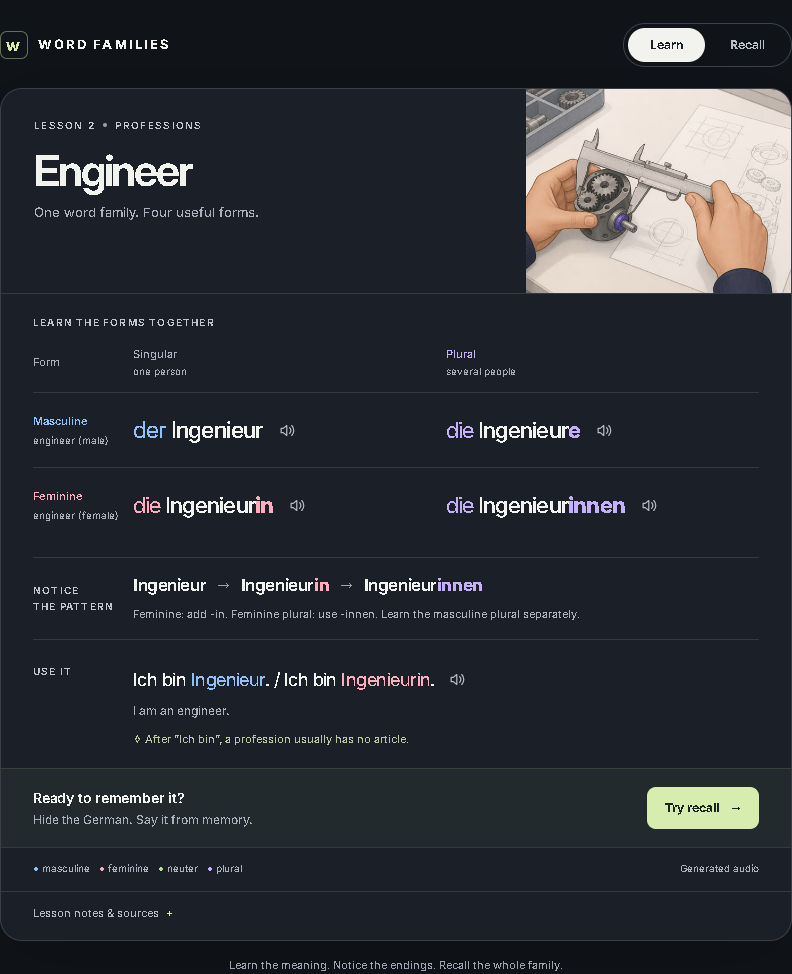
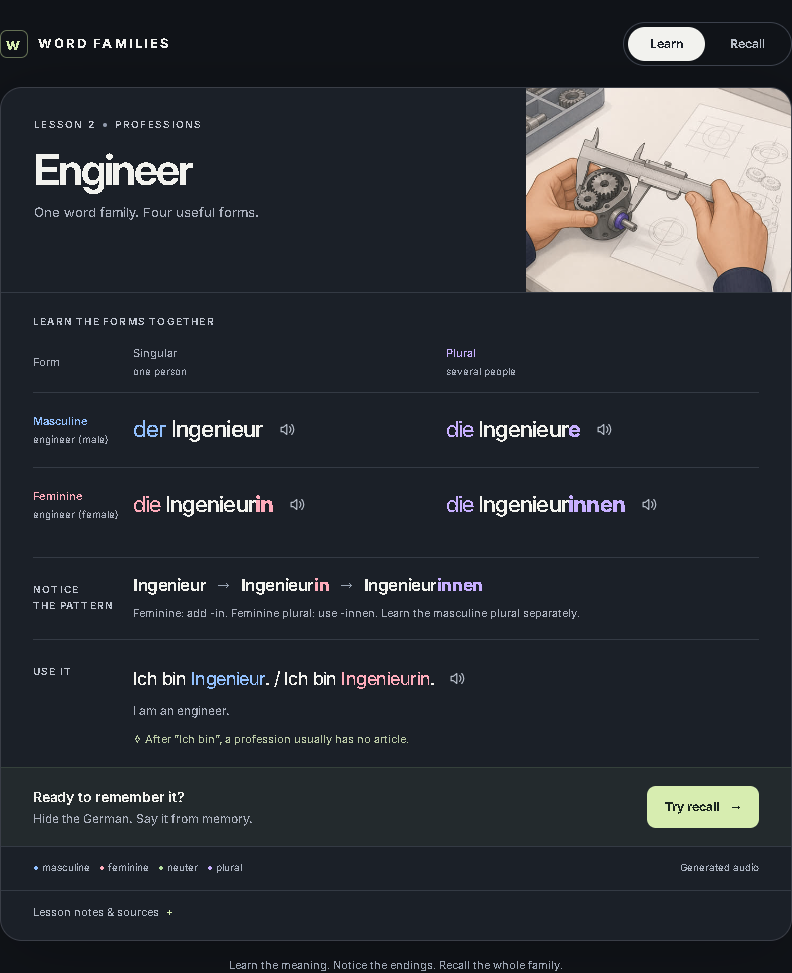
fix: preserve original browsing UI around complete vocabulary cards

diff --git a/platform/tests/web/word-family-cards-ui.test.ts b/platform/tests/web/word-family-cards-ui.test.ts
@@ -7,10 +7,55 @@ import { resolve } from "node:path";
 import { WordFamilyCard } from "../../apps/web/components/word-cards/WordFamilyCard";
 import type { WordCardCatalog } from "../../apps/web/lib/content/word-card-types";
 import { isSafeNavigationPath } from "../../apps/web/lib/content/navigation-context";
+import { buildHubNavigationContext, resolveBackHref } from "../../apps/web/lib/content/navigation-context";
+import { withWordCardHub } from "../../apps/web/lib/content/word-cards";
+import type { LearnerHubProjection } from "../../apps/web/lib/content/hub-types";
+import { HubListView } from "../../apps/web/components/hubs/HubViews";
+import { filterHubRecords, parseHubSearchParams } from "../../apps/web/lib/content/hub-query";
 
 const catalog = JSON.parse(readFileSync(resolve("apps/web/generated/word-cards.json"), "utf8")) as WordCardCatalog;
 const engineer = catalog.cards.find(c => c.id === "W126")!;
+const originalHub = (JSON.parse(readFileSync(resolve("apps/web/generated/learner-hubs.json"), "utf8")) as LearnerHubProjection).hubsById.vocabulary;
 afterEach(cleanup);
+
+describe("original vocabulary browsing with complete cards", () => {
+  it("keeps every complete family reachable through the original grid inventory", () => {
+    const hub = withWordCardHub(originalHub);
+    expect(hub.items).toHaveLength(catalog.cards.length);
+    expect(new Set(hub.items.map(i => i.hubDestination.path))).toEqual(new Set(catalog.cards.map(c => c.path)));
+    expect(hub.title).toBe(originalHub.title);
+    expect(hub.description).toBe(originalHub.description);
+    expect(hub.categories).toEqual(expect.arrayContaining([...originalHub.categories]));
+  });
+  it("preserves the original filter form and grid, with one aggregated engineer result", () => {
+    render(createElement(HubListView, { hub: withWordCardHub(originalHub), searchParams: { q: "Ingenieurinnen", lesson: "02", category: "noun" } }));
+    expect(screen.getByRole("searchbox", {name:"Search Vocabulary"})).toBeTruthy();
+    expect(screen.getByRole("combobox", {name:"Filter Vocabulary by lesson"})).toBeTruthy();
+    expect(screen.getByRole("combobox", {name:"Filter Vocabulary by category"})).toBeTruthy();
+    expect(screen.getByRole("button", {name:"Apply filters"})).toBeTruthy();
+    expect(screen.getByRole("link", {name:"Clear filters"})).toBeTruthy();
+    expect(document.querySelectorAll(".card-grid.hub-results [data-word-family]")).toHaveLength(1);
+    for(const text of ["der Ingenieur", "die Ingenieure", "die Ingenieurin", "die Ingenieurinnen"]) expect(screen.getByText(text, {exact:true})).toBeTruthy();
+    expect(screen.getByRole("link", {name:"Study this word family"}).getAttribute("href")).toMatch(/^\/vocabulary\/w126\?nav=/);
+  });
+  it("keeps Lesson 3 and every added number searchable and preserves return filters", () => {
+    const hub = withWordCardHub(originalHub);
+    const third = filterHubRecords(hub.items, parseHubSearchParams({lesson:"03"},hub.categories));
+    expect(third.items.length).toBeGreaterThanOrEqual(58);
+    const numbers = filterHubRecords(hub.items, parseHubSearchParams({category:"number"},hub.categories));
+    expect(numbers.items).toHaveLength(101);
+    const navigation = buildHubNavigationContext({hubId:"vocabulary",lesson:"03",q:"meine",category:"pronoun"});
+    expect(resolveBackHref(navigation,"hub")).toBe("/vocabulary?q=meine&lesson=03&category=pronoun");
+  });
+  it("clears edited form values when navigation clears the active filters", () => {
+    const complete = withWordCardHub(originalHub);
+    const hub = { ...complete, items: complete.items.filter(i => i.wordFamily?.id === "W126"), itemCount: 1 };
+    const view = render(createElement(HubListView, { hub, searchParams: {q:"Ingenieur"} }));
+    fireEvent.change(screen.getByRole("searchbox", {name:"Search Vocabulary"}), {target:{value:"Krankenpfleger"}});
+    view.rerender(createElement(HubListView, { hub, searchParams: {} }));
+    expect((screen.getByRole("searchbox", {name:"Search Vocabulary"}) as HTMLInputElement).value).toBe("");
+  });
+});
 
 describe("complete word-family cards", () => {
   it("keeps both engineer entries and all four forms together", () => {

diff --git a/platform/apps/web/lib/content/word-cards.ts b/platform/apps/web/lib/content/word-cards.ts
@@ -4,6 +4,7 @@ import { dirname, join } from "node:path";
 import type { WordCardCatalog } from "./word-card-types";
 import type { LearnerSearchProjection, LearnerSearchDocument, LearnerSearchField } from "./search-types";
 import { germanMatchKeys } from "./match-keys";
+import type { LearnerHubDefinition, LearnerHubRecord } from "./hub-types";
 
 let cached: WordCardCatalog | undefined;
 const catalogPath = join(dirname(fileURLToPath(import.meta.url)), "../../generated/word-cards.json");
@@ -13,6 +14,19 @@ export function loadWordCards(): WordCardCatalog {
 }
 export function wordCardForPath(path: string) {
   return loadWordCards().cards.find(card => card.path === path || card.aliases.includes(path));
+}
+
+/** Keep the established hub UI and query contract; replace only its inventory. */
+export function withWordCardHub(original: LearnerHubDefinition): LearnerHubDefinition {
+  const categoryMap: Record<string, string> = { Noun: "noun", Profession: "noun", Family: "noun", Language: "noun", Country: "proper-noun", Geography: "proper-noun", Functionword: "function-word", Questionword: "question-word" };
+  const items: LearnerHubRecord[] = loadWordCards().cards.map((card): LearnerHubRecord => {
+    const previous = original.items.find(item => card.aliases.includes(item.hubDestination.path) || card.aliases.includes(`/vocabulary/id-${Buffer.from(item.id).toString("hex")}`));
+    const category = previous?.category ?? categoryMap[card.category] ?? card.category.toLowerCase();
+    const lessonIds = [...new Set([...card.lessons.flatMap(l => l === "1–3" || l === "Module 1" ? ["lesson:01", "lesson:02", "lesson:03"] : /^[123]$/.test(l) ? [`lesson:0${l}`] : []), ...(previous?.lessonIds ?? []), ...(card.teacherRows.length ? ["lesson:02"] : [])])];
+    const field = (name: string, text: string) => ({ field: name, displayText: text, matchKeys: germanMatchKeys(text) });
+    return { id: `lex:study-${card.id.toLowerCase()}`, kind: "Lexeme", publicationStatus: "published", displayLabel: card.rows.map(r => r.singular.text).join(" / "), category, lessonIds, sourcePriority: card.priorities.includes("Core") ? 1 : card.teacherRows.length ? 3 : 2, hubDestination: { hub: "vocabulary", path: card.path }, wordFamily: card, searchFields: [field("meaning", card.title), field("category", category), field("topic", card.category), ...card.rows.flatMap(r => [field("lemma", r.singular.text), field("meaning", r.meaning), ...r.plurals.map(p => field("form", p.text))])] };
+  }).sort((a,b) => a.displayLabel.localeCompare(b.displayLabel, "de"));
+  return { ...original, items, itemCount: items.length, categories: [...new Set([...original.categories, ...items.map(i => i.category!).filter(Boolean)])].sort() };
 }
 
 export function withWordCardSearch(projection: LearnerSearchProjection): LearnerSearchProjection {

diff --git a/platform/apps/web/components/hubs/HubViews.tsx b/platform/apps/web/components/hubs/HubViews.tsx
@@ -37,6 +37,7 @@ import type { LearnerGender } from "@/lib/content/detail-types";
 import { resolvePublishedPronunciationExact } from "@/lib/content/media-availability";
 import { illustrationForDetail } from "@/lib/content/illustrations";
 import { IllustrationPicture } from "@/components/media/IllustrationPicture";
+import { WordFamilyPreview } from "@/components/word-cards/WordFamilyPreview";
 import {
   LemmaAudioButton,
   MeaningPlate,
@@ -205,6 +206,7 @@ function VocabularyHubCard({
   query: HubQueryState;
 }) {
   const href = hubDetailHref(hub, record, query);
+  if (record.wordFamily && href) return <WordFamilyPreview card={record.wordFamily} href={href} lessonIds={record.lessonIds} />;
   const { article, gender, lemma } = splitArticle(record.displayLabel);
   const gloss = firstFieldText(record, "meaning");
   const plural =
@@ -432,14 +434,14 @@ function hubDetailHref(
 ): string | null {
   const detailHub = detailHubForId(record.id);
   if (detailHub !== hub.id) return null;
-  const href = detailCanonicalPath(detailHub, record.id);
+  const href = record.wordFamily ? record.hubDestination.path : detailCanonicalPath(detailHub, record.id);
   if (!isSafeNavigationPath(href)) return null;
   return appendNavigationContext(
     href,
     buildHubNavigationContext({
       hubId: hub.id,
       ...(query.q.trim().length > 0 ? { q: query.q } : {}),
-      ...(query.lesson === "01" || query.lesson === "02"
+      ...(query.lesson === "01" || query.lesson === "02" || query.lesson === "03"
         ? { lesson: query.lesson }
         : {}),
       ...(query.category && query.category !== "all"
@@ -880,6 +882,7 @@ function HubFilters({
     <section className="panel hub-filters" aria-labelledby="hub-filters-heading">
       <h2 id="hub-filters-heading">Filter items</h2>
       <form
+        key={JSON.stringify([query.q, query.lesson, query.category])}
         className="hub-filter-form"
         method="get"
         action={withPagesBasePath(hub.path)}
@@ -910,6 +913,7 @@ function HubFilters({
               <option value="all">All</option>
               <option value="01">Lesson 1</option>
               <option value="02">Lesson 2</option>
+              {hub.items.some(item => item.lessonIds.includes("lesson:03")) && <option value="03">Lesson 3</option>}
             </select>
           </label>
           {hasCategories ? (

diff --git a/platform/apps/web/app/vocabulary/[entityId]/page.tsx b/platform/apps/web/app/vocabulary/[entityId]/page.tsx
@@ -1,8 +1,10 @@
 import type { Metadata } from "next";
-import Link from "next/link";
+import { Suspense } from "react";
 import { notFound } from "next/navigation";
 import { ShellLayout } from "@/components/shell/ShellLayout";
 import { WordFamilyCard } from "@/components/word-cards/WordFamilyCard";
+import { WordCardBackLink } from "@/components/word-cards/WordCardBackLink";
+import { BackLink } from "@/components/nav/BackLink";
 import { loadWordCards, wordCardForPath } from "@/lib/content/word-cards";
 import { DetailLearningControls } from "@/components/learner-state/DetailLearningControls";
 import { tryDecodeEntityRouteSegment } from "@/lib/content/path-utils";
@@ -22,10 +24,8 @@ export default async function VocabularyDetailPage({ params }: PageProps) {
   const { entityId } = await params;
   const card = wordCardForPath(`/vocabulary/${entityId}`);
   if (!card) notFound();
-  const cards = loadWordCards().cards;
-  const index = cards.findIndex(c => c.id === card.id);
   const oldPath = card.aliases.find(p => p.startsWith("/vocabulary/id-"));
   const requestedLearningId = tryDecodeEntityRouteSegment(entityId);
   const learningId = requestedLearningId?.startsWith("lex:") ? requestedLearningId : oldPath ? tryDecodeEntityRouteSegment(oldPath.split("/").at(-1)!) : null;
-  return <ShellLayout current="vocabulary"><div className={styles.detailFrame}><nav className={styles.cardNavigation} aria-label="Vocabulary cards"><Link href="/vocabulary">← All vocabulary</Link>{index > 0 && <Link href={cards[index - 1]!.path} prefetch={false}>Previous family</Link>}{index < cards.length - 1 && <Link href={cards[index + 1]!.path} prefetch={false}>Next family →</Link>}</nav><WordFamilyCard key={card.id} card={card} /></div>{learningId && <DetailLearningControls key={learningId} contentId={learningId} />}</ShellLayout>;
+  return <ShellLayout current="vocabulary"><div className="stack"><Suspense fallback={<BackLink href="/vocabulary" />}><WordCardBackLink /></Suspense><div className={styles.detailFrame}><WordFamilyCard key={card.id} card={card} /></div>{learningId && <DetailLearningControls key={learningId} contentId={learningId} />}</div></ShellLayout>;
 }

diff --git a/platform/apps/web/components/word-cards/WordFamilyPreview.tsx b/platform/apps/web/components/word-cards/WordFamilyPreview.tsx
@@ -1,0 +1,23 @@
+import Link from "next/link";
+import type { WordCard, WordForm } from "@/lib/content/word-card-types";
+import { withPagesBaseAssetPath } from "@/lib/content/pages-base-path";
+import { LemmaAudioButton } from "@/components/media/MeaningPlate";
+import { lessonLabel } from "@/lib/content/lesson-label";
+import styles from "./word-family-preview.module.css";
+
+function Form({ form }: { form: WordForm }) {
+  return <div className={styles.form}><span className={styles[form.tone]} lang="de">{form.text}</span>{form.audio && <LemmaAudioButton audio={{ publicPath: form.audio, spokenText: form.text }} label={form.text} />}</div>;
+}
+
+/** Compact entry in the existing browse grid; opens the full approved card. */
+export function WordFamilyPreview({ card, href, lessonIds }: { card: WordCard; href: string; lessonIds: readonly string[] }) {
+  return <article className={`hub-card hub-card--vocabulary ${styles.card}`} data-hub-card="vocabulary" data-word-family={card.id}>
+    {card.image && <div className="hub-card__media"><img className="hub-card__image" src={withPagesBaseAssetPath(card.image.path)} alt={card.image.alt} width={400} height={400} loading="lazy" decoding="async" /></div>}
+    <div className={styles.body}>
+      <h2 className="hub-card__title"><Link className="hub-card__link" href={href} prefetch={false}>{card.title}</Link></h2>
+      {card.rows.map((row, index) => <div className={styles.row} key={`${index}-${row.singular.text}`}><span className={styles.label}>{row.label}</span><Form form={row.singular} />{row.plurals.map(form => <div key={form.text}><span className={styles.label}>Plural</span><Form form={form} /></div>)}</div>)}
+      <p className="meta-row hub-card__meta">{lessonIds.map(id => <span key={id} className="meta-chip">{lessonLabel(id)}</span>)}</p>
+      <Link className="btn btn-secondary" href={href} prefetch={false}>Study this word family</Link>
+    </div>
+  </article>;
+}

diff --git a/platform/apps/web/lib/content/navigation-context.ts b/platform/apps/web/lib/content/navigation-context.ts
@@ -30,7 +30,7 @@ export type NavigationContext = {
   /** Hub id when entryContext is hub. */
   hubId?: LearnerHubId;
   /** Hub lesson filter. */
-  lesson?: "all" | "01" | "02";
+  lesson?: "all" | "01" | "02" | "03";
   /** Hub category filter. */
   category?: string;
   /** Optional safe result id that was opened (entity id, not assertion). */
@@ -230,7 +230,7 @@ function normalizeContext(raw: unknown): NavigationContext | null {
         ctx.returnPath = `/${obj.hubId}`;
       }
     }
-    if (obj.lesson === "01" || obj.lesson === "02" || obj.lesson === "all") {
+    if (obj.lesson === "01" || obj.lesson === "02" || obj.lesson === "03" || obj.lesson === "all") {
       ctx.lesson = obj.lesson;
     }
     if (typeof obj.category === "string") {
@@ -393,7 +393,7 @@ export function buildSearchNavigationContext(
 export function buildHubNavigationContext(input: {
   hubId: LearnerHubId;
   q?: string;
-  lesson?: "all" | "01" | "02";
+  lesson?: "all" | "01" | "02" | "03";
   category?: string;
   resultId?: string;
 }): NavigationContext {
@@ -404,7 +404,7 @@ export function buildHubNavigationContext(input: {
   };
   const q = input.q != null ? sanitizeSearchQueryText(input.q).trim() : "";
   if (q.length > 0) ctx.q = q;
-  if (input.lesson === "01" || input.lesson === "02") ctx.lesson = input.lesson;
+  if (input.lesson === "01" || input.lesson === "02" || input.lesson === "03") ctx.lesson = input.lesson;
   if (input.category) {
     const category = sanitizeHubQueryText(input.category).trim();
     if (category.length > 0 && category !== "all") ctx.category = category;

diff --git a/platform/apps/web/app/vocabulary/page.tsx b/platform/apps/web/app/vocabulary/page.tsx
@@ -1,11 +1,11 @@
-import { Suspense } from "react";
 import type { Metadata } from "next";
-import { ShellLayout } from "@/components/shell/ShellLayout";
-import { WordCardLibrary, WordCardLibraryWithParams } from "@/components/word-cards/WordCardLibrary";
-import { loadWordCards } from "@/lib/content/word-cards";
+import { HubRoutePage } from "@/components/hubs/HubRoutePage";
+import { getHubById } from "@/lib/content/access";
+import { hubPageMetadata } from "@/lib/content/page-metadata";
 
-export const metadata: Metadata = { title: "Vocabulary · Lessons 1–3", description: "All vocabulary through Lesson 3, numbers, spelling and teacher professions in complete word-family cards." };
+/** Title and description come from the hub itself, so they cannot drift. */
+export const metadata: Metadata = hubPageMetadata(getHubById("vocabulary"));
+
 export default function VocabularyPage() {
-  const catalog = loadWordCards();
-  return <ShellLayout current="vocabulary"><Suspense fallback={<WordCardLibrary catalog={catalog} />}><WordCardLibraryWithParams catalog={catalog} /></Suspense></ShellLayout>;
+  return <HubRoutePage hubId="vocabulary" />;
 }

diff --git a/platform/apps/web/app/collections/professions/page.tsx b/platform/apps/web/app/collections/professions/page.tsx
@@ -1,8 +1,7 @@
-import { Suspense } from "react";
 import type { Metadata } from "next";
 import { ShellLayout } from "@/components/shell/ShellLayout";
-import { WordCardLibrary, WordCardLibraryWithParams } from "@/components/word-cards/WordCardLibrary";
-import { loadWordCards } from "@/lib/content/word-cards";
+import { loadExtraProfessionsProjection } from "@/lib/content/extra-professions";
+import { ProfessionCollectionClient } from "./ProfessionCollectionClient";
 
 export const metadata: Metadata = {
   // The root layout template appends the product name; it is not repeated here.
@@ -11,10 +10,9 @@ export const metadata: Metadata = {
 };
 
 export default function ExtraProfessionsPage() {
-  const catalog = loadWordCards();
   return (
     <ShellLayout current="vocabulary">
-      <Suspense fallback={<WordCardLibrary catalog={catalog} teachersOnly />}><WordCardLibraryWithParams catalog={catalog} teachersOnly /></Suspense>
+      <ProfessionCollectionClient projection={loadExtraProfessionsProjection()} />
     </ShellLayout>
   );
 }

diff --git a/platform/apps/web/components/hubs/HubRoutePage.tsx b/platform/apps/web/components/hubs/HubRoutePage.tsx
@@ -5,6 +5,7 @@ import { HubListViewWithParams } from "@/components/hubs/HubNavViews";
 import { loadLearnerHubProjection } from "@/lib/content/access";
 import type { LearnerHubId } from "@/lib/content/hub-types";
 import { navKeyForHub } from "@/lib/content/nav";
+import { withWordCardHub } from "@/lib/content/word-cards";
 
 /**
  * Static hub shell: filters come from the client `useSearchParams` boundary
@@ -12,7 +13,7 @@ import { navKeyForHub } from "@/lib/content/nav";
  */
 export function HubRoutePage({ hubId }: { hubId: LearnerHubId }) {
   const hubs = loadLearnerHubProjection();
-  const hub = hubs.hubsById[hubId];
+  const hub = hubId === "vocabulary" ? withWordCardHub(hubs.hubsById[hubId]) : hubs.hubsById[hubId];
   return (
     <ShellLayout current={navKeyForHub(hubId)}>
       <Suspense fallback={<HubListView hub={hub} searchParams={{}} />}>

diff --git a/platform/apps/web/lib/content/hub-query.ts b/platform/apps/web/lib/content/hub-query.ts
@@ -2,7 +2,7 @@ import { lessonLabel } from "./lesson-label";
 import { queryMatchKeys } from "./match-keys";
 import type { LearnerHubRecord } from "./hub-types";
 
-export type HubLessonFilter = "all" | "01" | "02";
+export type HubLessonFilter = "all" | "01" | "02" | "03";
 
 export type HubQueryState = {
   q: string;
@@ -24,6 +24,7 @@ const LESSON_FILTER_TO_ID: Readonly<Record<Exclude<HubLessonFilter, "all">, stri
   Object.freeze({
     "01": "lesson:01",
     "02": "lesson:02",
+    "03": "lesson:03",
   });
 
 function firstParam(
@@ -58,7 +59,7 @@ export function sanitizeHubQueryText(raw: string): string {
 }
 
 function parseLesson(raw: string | undefined): HubLessonFilter {
-  if (raw === "01" || raw === "02") return raw;
+  if (raw === "01" || raw === "02" || raw === "03") return raw;
   return "all";
 }
 

diff --git a/platform/apps/web/app/hubs/page.tsx b/platform/apps/web/app/hubs/page.tsx
@@ -12,7 +12,7 @@ export const metadata: Metadata = pageMetadata(
 
 export default function HubsDirectoryPage() {
   const original = loadLearnerHubProjection();
-  const vocabulary = { ...original.hubsById.vocabulary, itemCount: loadWordCards().cards.length, description: "Complete word-family cards through Lesson 3, including numbers, spelling and all 48 teacher jobs." };
+  const vocabulary = { ...original.hubsById.vocabulary, itemCount: loadWordCards().cards.length };
   const projection = { ...original, hubs: original.hubs.map(h => h.id === "vocabulary" ? vocabulary : h), hubsById: { ...original.hubsById, vocabulary } };
   return (
     <ShellLayout current="hubs">

diff --git a/platform/apps/web/components/word-cards/word-family-preview.module.css b/platform/apps/web/components/word-cards/word-family-preview.module.css
@@ -1,0 +1,1 @@
+.card{min-width:0}.body{padding:.5rem 0;display:grid;gap:1rem}.row{border-top:1px solid var(--border);padding-top:.75rem;display:grid;gap:.25rem}.label{font-size:.72rem;color:var(--text-muted)}.form{display:flex;align-items:center;justify-content:space-between;gap:.5rem;min-width:0}.form>span{overflow-wrap:anywhere;font-size:1rem;font-weight:600}.form :global(.meaning-plate__audio-btn){padding:.5rem;min-width:44px;width:44px;justify-content:center}.form :global(.meaning-plate__audio-text){display:none}.male{color:var(--gender-m-ink)}.female{color:var(--gender-f-ink)}.neuter{color:var(--gender-n-ink)}.plural{color:var(--gender-pl)}.plain{color:inherit}
